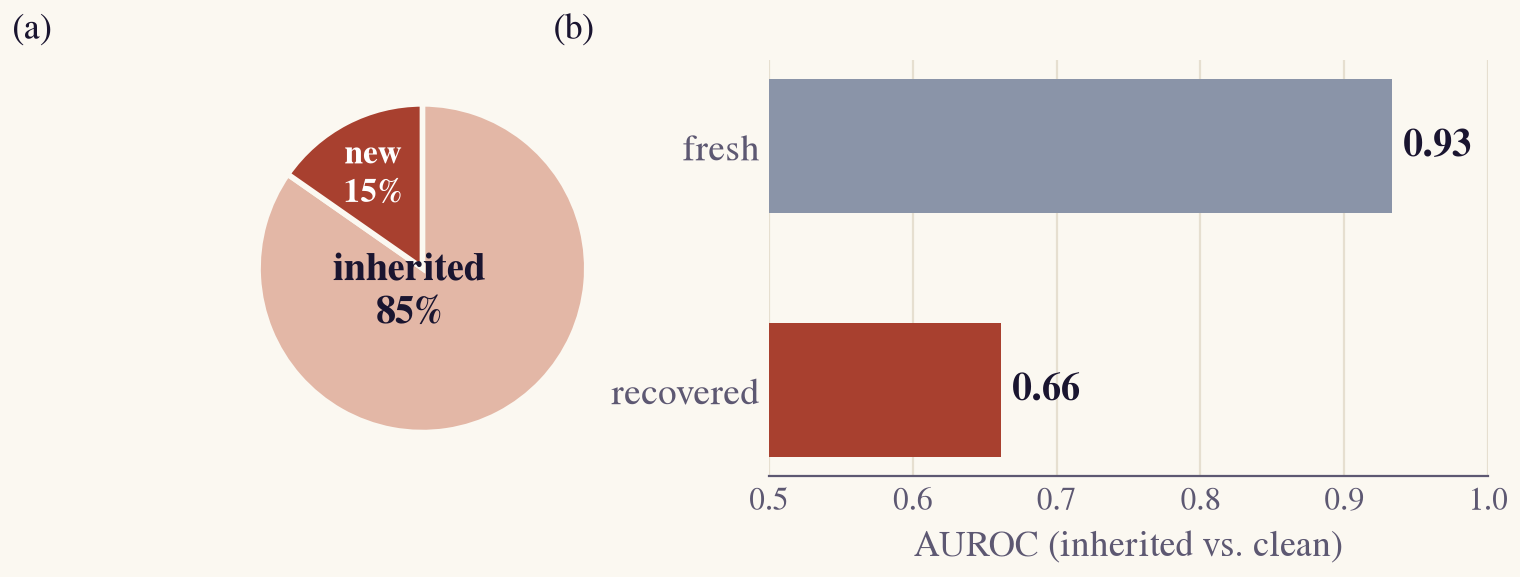
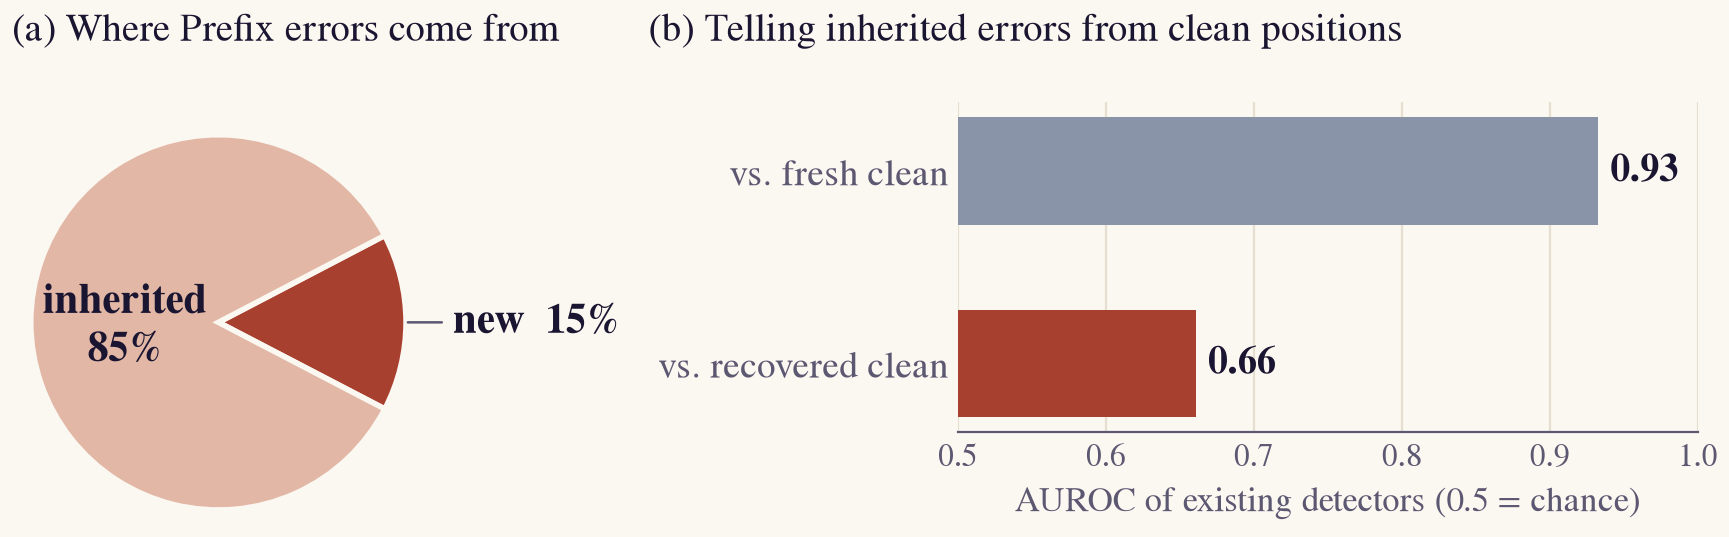
Redraw the Prefix challenge figure in the 2026-11-18 report
Give each panel a title, label the pie directly (inherited 85% inside, new
15% outside), spell out the bar labels as vs. fresh / recovered clean, and
state chance level on the AUROC axis. The caption defines the two clean
position types.

diff --git a/weekly/scripts/2026-11-18_figures.py b/weekly/scripts/2026-11-18_figures.py
@@ -211,22 +211,26 @@ def step_readouts(still=None):
 
 # ---------------------------------------------------------------- 3b. prefix challenge
 def prefix_challenge():
-    fig, (a, b) = plt.subplots(1, 2, figsize=(8.2, 2.7), dpi=200, gridspec_kw={"width_ratios": [0.8, 1.4], "wspace": 0.25})
-    a.pie([84.7, 15.3], colors=[INHERITED, NEW], startangle=90, counterclock=False,
+    fig = plt.figure(figsize=(8.6, 2.75), dpi=200)
+    a = fig.add_axes([0.0, 0.0, 0.36, 0.84]); b = fig.add_axes([0.55, 0.22, 0.43, 0.6])
+    # (a) composition of Prefix-erroneous positions; the small "new" wedge faces right
+    a.pie([15.3, 84.7], colors=[NEW, INHERITED], startangle=-27.5, counterclock=True, radius=1.0,
           wedgeprops=dict(edgecolor=SURFACE, linewidth=2))
-    a.text(-0.08, -0.12, "inherited\n85%", ha="center", va="center", fontsize=14, color=INK, fontweight="bold", linespacing=1.1)
-    a.text(-0.3, 0.58, "new\n15%", ha="center", va="center", fontsize=12, color="white", fontweight="bold", linespacing=1.05)
-    a.set_aspect("equal")
+    a.set_xlim(-1.1, 2.2); a.set_ylim(-1.08, 1.08); a.set_aspect("equal"); a.axis("off")
+    a.text(-0.5, 0.0, "inherited\n85%", ha="center", va="center", fontsize=15, color=INK, fontweight="bold", linespacing=1.15)
+    a.annotate("new  15%", xy=(0.98, 0.0), xytext=(1.25, 0.0), fontsize=15, color=INK, va="center", fontweight="bold",
+               arrowprops=dict(arrowstyle="-", color=INK2, lw=0.9))
+    fig.text(0.0, 0.985, "(a) Where Prefix errors come from", fontsize=14, color=INK, va="top")
+    # (b) separating inherited errors from two kinds of clean positions
     vals, cols = [0.933, 0.661], ["#8a94a8", NEW]
     for i, (v, c) in enumerate(zip(vals, cols)):
-        b.barh(i, v - 0.5, left=0.5, color=c, height=0.55, zorder=3)
+        b.barh(i, v - 0.5, left=0.5, color=c, height=0.56, zorder=3)
         b.text(v + 0.008, i, f"{v:.2f}", va="center", fontsize=14, color=INK, fontweight="bold")
-    b.set_yticks([0, 1], ["fresh", "recovered"], fontsize=13.5, color=INK); b.invert_yaxis()
+    b.set_yticks([0, 1], ["vs. fresh clean", "vs. recovered clean"], fontsize=13.5, color=INK); b.invert_yaxis()
     b.set_xlim(0.5, 1.0); b.set_xticks([0.5, 0.6, 0.7, 0.8, 0.9, 1.0]); b.tick_params(axis="x", labelsize=11.5)
-    b.set_xlabel("AUROC (inherited vs. clean)", fontsize=13, color=INK2)
+    b.set_xlabel("AUROC of existing detectors (0.5 = chance)", fontsize=12.5, color=INK2)
     b.grid(axis="x", color="#e6dfd0", lw=0.8, zorder=0); style_axis(b)
-    fig.text(0.0, 0.97, "(a)", fontsize=13, color=INK, va="top")
-    fig.text(0.33, 0.97, "(b)", fontsize=13, color=INK, va="top")
+    fig.text(0.37, 0.985, "(b) Telling inherited errors from clean positions", fontsize=14, color=INK, va="top")
     save(fig, "prefix_challenge.png")
 
 

diff --git a/weekly/2026-11-18.md b/weekly/2026-11-18.md
@@ -52,7 +52,7 @@ The Answer builds on the final Prefix state, with $`\alpha_c`$ the probability o
 
 ### Prefix: the hard part is κ
 
-![(a) Prefix errors that are new or inherited, over 1.45M labelled steps. (b) Existing detectors (mean of five, TEST) separating inherited errors from fresh clean positions (no error so far) and from recovered clean positions (earlier error resolved).](assets/2026-11-18/prefix_challenge.png)
+![(a) Share of Prefix errors that are new or inherited, over 1.45M labelled steps. (b) Mean AUROC of five existing Prefix detectors on TEST. Fresh clean: no error so far. Recovered clean: an earlier error has been resolved.](assets/2026-11-18/prefix_challenge.png)
 
 **Finding.** 85% of Prefix errors are inherited. Existing detectors separate them from positions before any error (0.93) far better than from positions whose earlier error was resolved (0.66).
 
